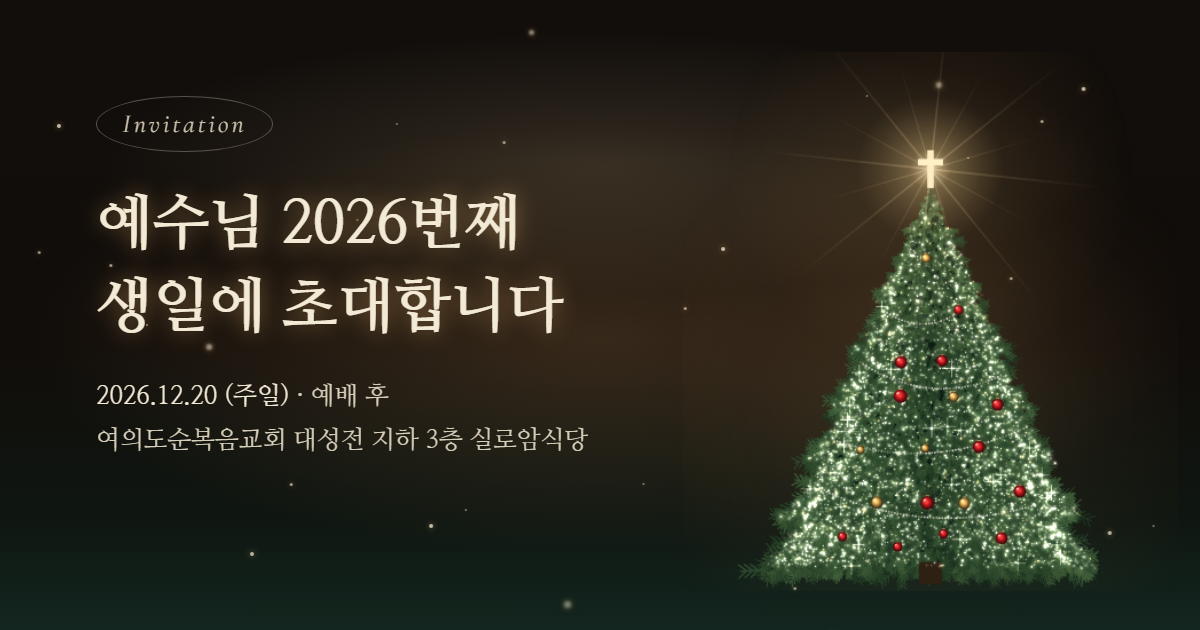
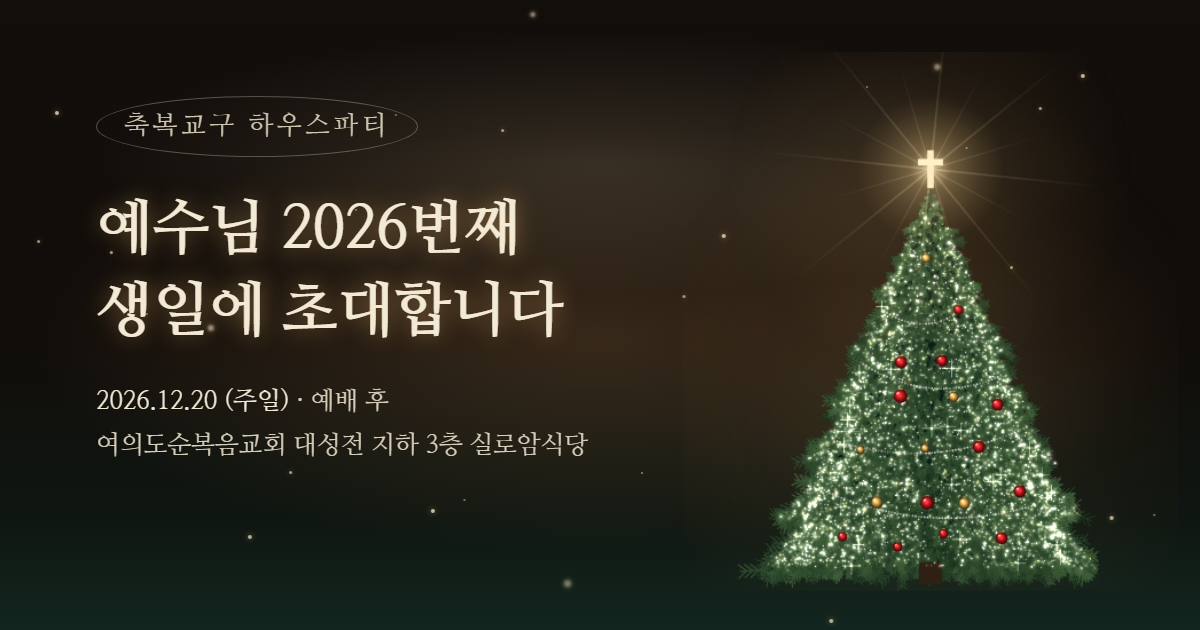
초대장 업데이트 2026-11-25 15:57

diff --git a/index.html b/index.html
@@ -3,16 +3,16 @@
 <head>
 <meta charset="utf-8">
 <meta name="viewport" content="width=device-width,initial-scale=1,viewport-fit=cover">
-<title>예수님 2026번째 생일에 초대합니다</title>
+<title>축복교구 하우스파티 · 예수님 2026번째 생일에 초대합니다</title>
 <meta name="description" content="2026.12.20(주일) 예배 후, 여의도순복음교회 대성전 지하 3층 실로암식당">
 <meta property="og:type" content="website">
-<meta property="og:title" content="예수님 2026번째 생일에 초대합니다">
+<meta property="og:title" content="축복교구 하우스파티 · 예수님 2026번째 생일에 초대합니다">
 <meta property="og:description" content="2026.12.20(주일) 예배 후, 여의도순복음교회 대성전 지하 3층 실로암식당">
 <meta property="og:url" content="https://channy33.github.io/house-party/">
 <meta property="og:image" content="https://channy33.github.io/house-party/og.png">
 <meta property="og:image:width" content="1200">
 <meta property="og:image:height" content="630">
-<meta property="og:image:alt" content="예수님 2026번째 생일에 초대합니다">
+<meta property="og:image:alt" content="축복교구 하우스파티 · 예수님 2026번째 생일에 초대합니다">
 <meta name="twitter:card" content="summary_large_image">
 <link rel="preconnect" href="https://fonts.googleapis.com">
 <link rel="preconnect" href="https://fonts.gstatic.com" crossorigin>
@@ -129,15 +129,14 @@
   .badge {
     position: relative;
     z-index: 2;
-    font-family: var(--script);
-    font-style: italic;
+    font-family: var(--display);
     font-weight: 400;
-    font-size: 1.15rem;
-    letter-spacing: .12em;
+    font-size: .92rem;
+    letter-spacing: .14em;
     color: var(--ivory-soft);
     border: 1px solid rgba(243, 234, 214, .3);
     border-radius: 50%;
-    padding: .3rem 1.6rem;
+    padding: .45rem 1.7rem;
     margin: 0;
   }
   .title {
@@ -617,7 +616,7 @@
       <i style="left:62%;--t:18%;--s:7px;--o:.4;--b:1.8px;animation-duration:9.8s,5.2s;animation-delay:-8.7s,-3.8s"></i>
       <i style="left:86%;--t:74%;--s:3px;--o:.65;animation-duration:16.8s,7s;animation-delay:-2.4s,-0.6s"></i>
     </div>
-    <p class="badge">Invitation</p>
+    <p class="badge">축복교구 하우스파티</p>
     <h1 class="title">예수님 2026번째<br>생일에 초대합니다</h1>
     <p class="hint" id="hint">트리 꼭대기 십자가를 누르면 초대장을 볼 수 있어요</p>
     <div class="tree-wrap" id="tree-wrap">
